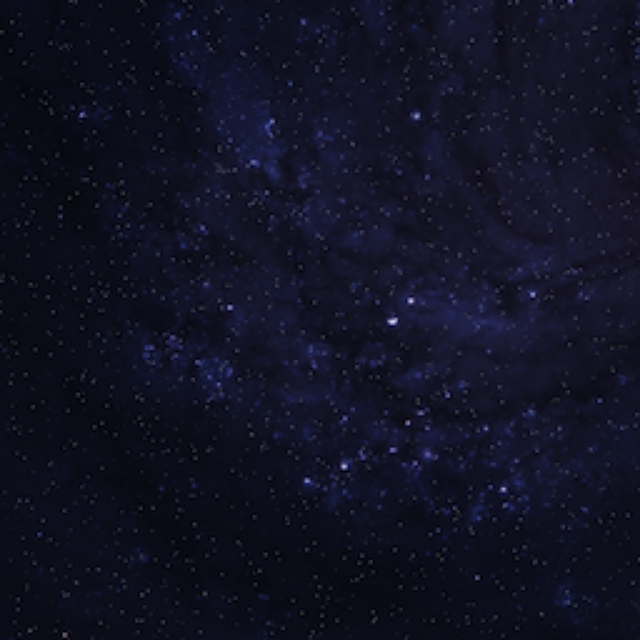
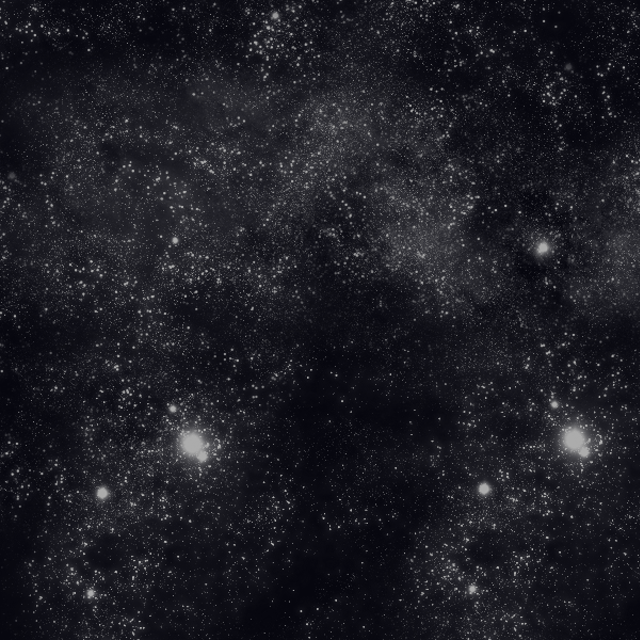
fix compilation error, add background

diff --git a/app/assets/stylesheets/matches.css.scss b/app/assets/stylesheets/matches.css.scss
@@ -1,3 +1,13 @@
 // Place all the styles related to the Matches controller here.
 // They will automatically be included in application.css.
 // You can use Sass (SCSS) here: http://sass-lang.com/
+
+
+#players {
+  font-size: 2em;
+}
+
+#controls {
+  text-align: center;
+  font-size: 3em;
+}

diff --git a/app/models/submission.rb b/app/models/submission.rb
@@ -33,7 +33,7 @@ class Submission < ActiveRecord::Base
     bot_name = folder + "bot"
     case self.language.name
     when "cpp"
-      cmd = "g++ -o #{bot_name} #{source_name} #{WORKSPACE_ROOT}/lib/cpp/PlanetWars.cc -I#{WORKSPACE_ROOT}/lib/cpp"
+      cmd = "g++ -o #{bot_name} #{source_name} #{WORKSPACE_ROOT}/lib/cpp/PlanetWars.cc -I#{WORKSPACE_ROOT}/lib/cpp --std=c++11"
       puts "cmd = #{cmd}"
       system(cmd,err: compiler_message)
       self.compiler_message = File.read(compiler_message)
@@ -52,7 +52,11 @@ class Submission < ActiveRecord::Base
   end
 
   def process_new_submission
-    do_compile
+    begin
+      do_compile
+    rescue
+      flash[:danger] = "Compilation Error"
+    end
     if state == 1 then
       set_compulsory_match(NOOP_SUBMISSION_ID,Match::COMPULSORY)
     end
